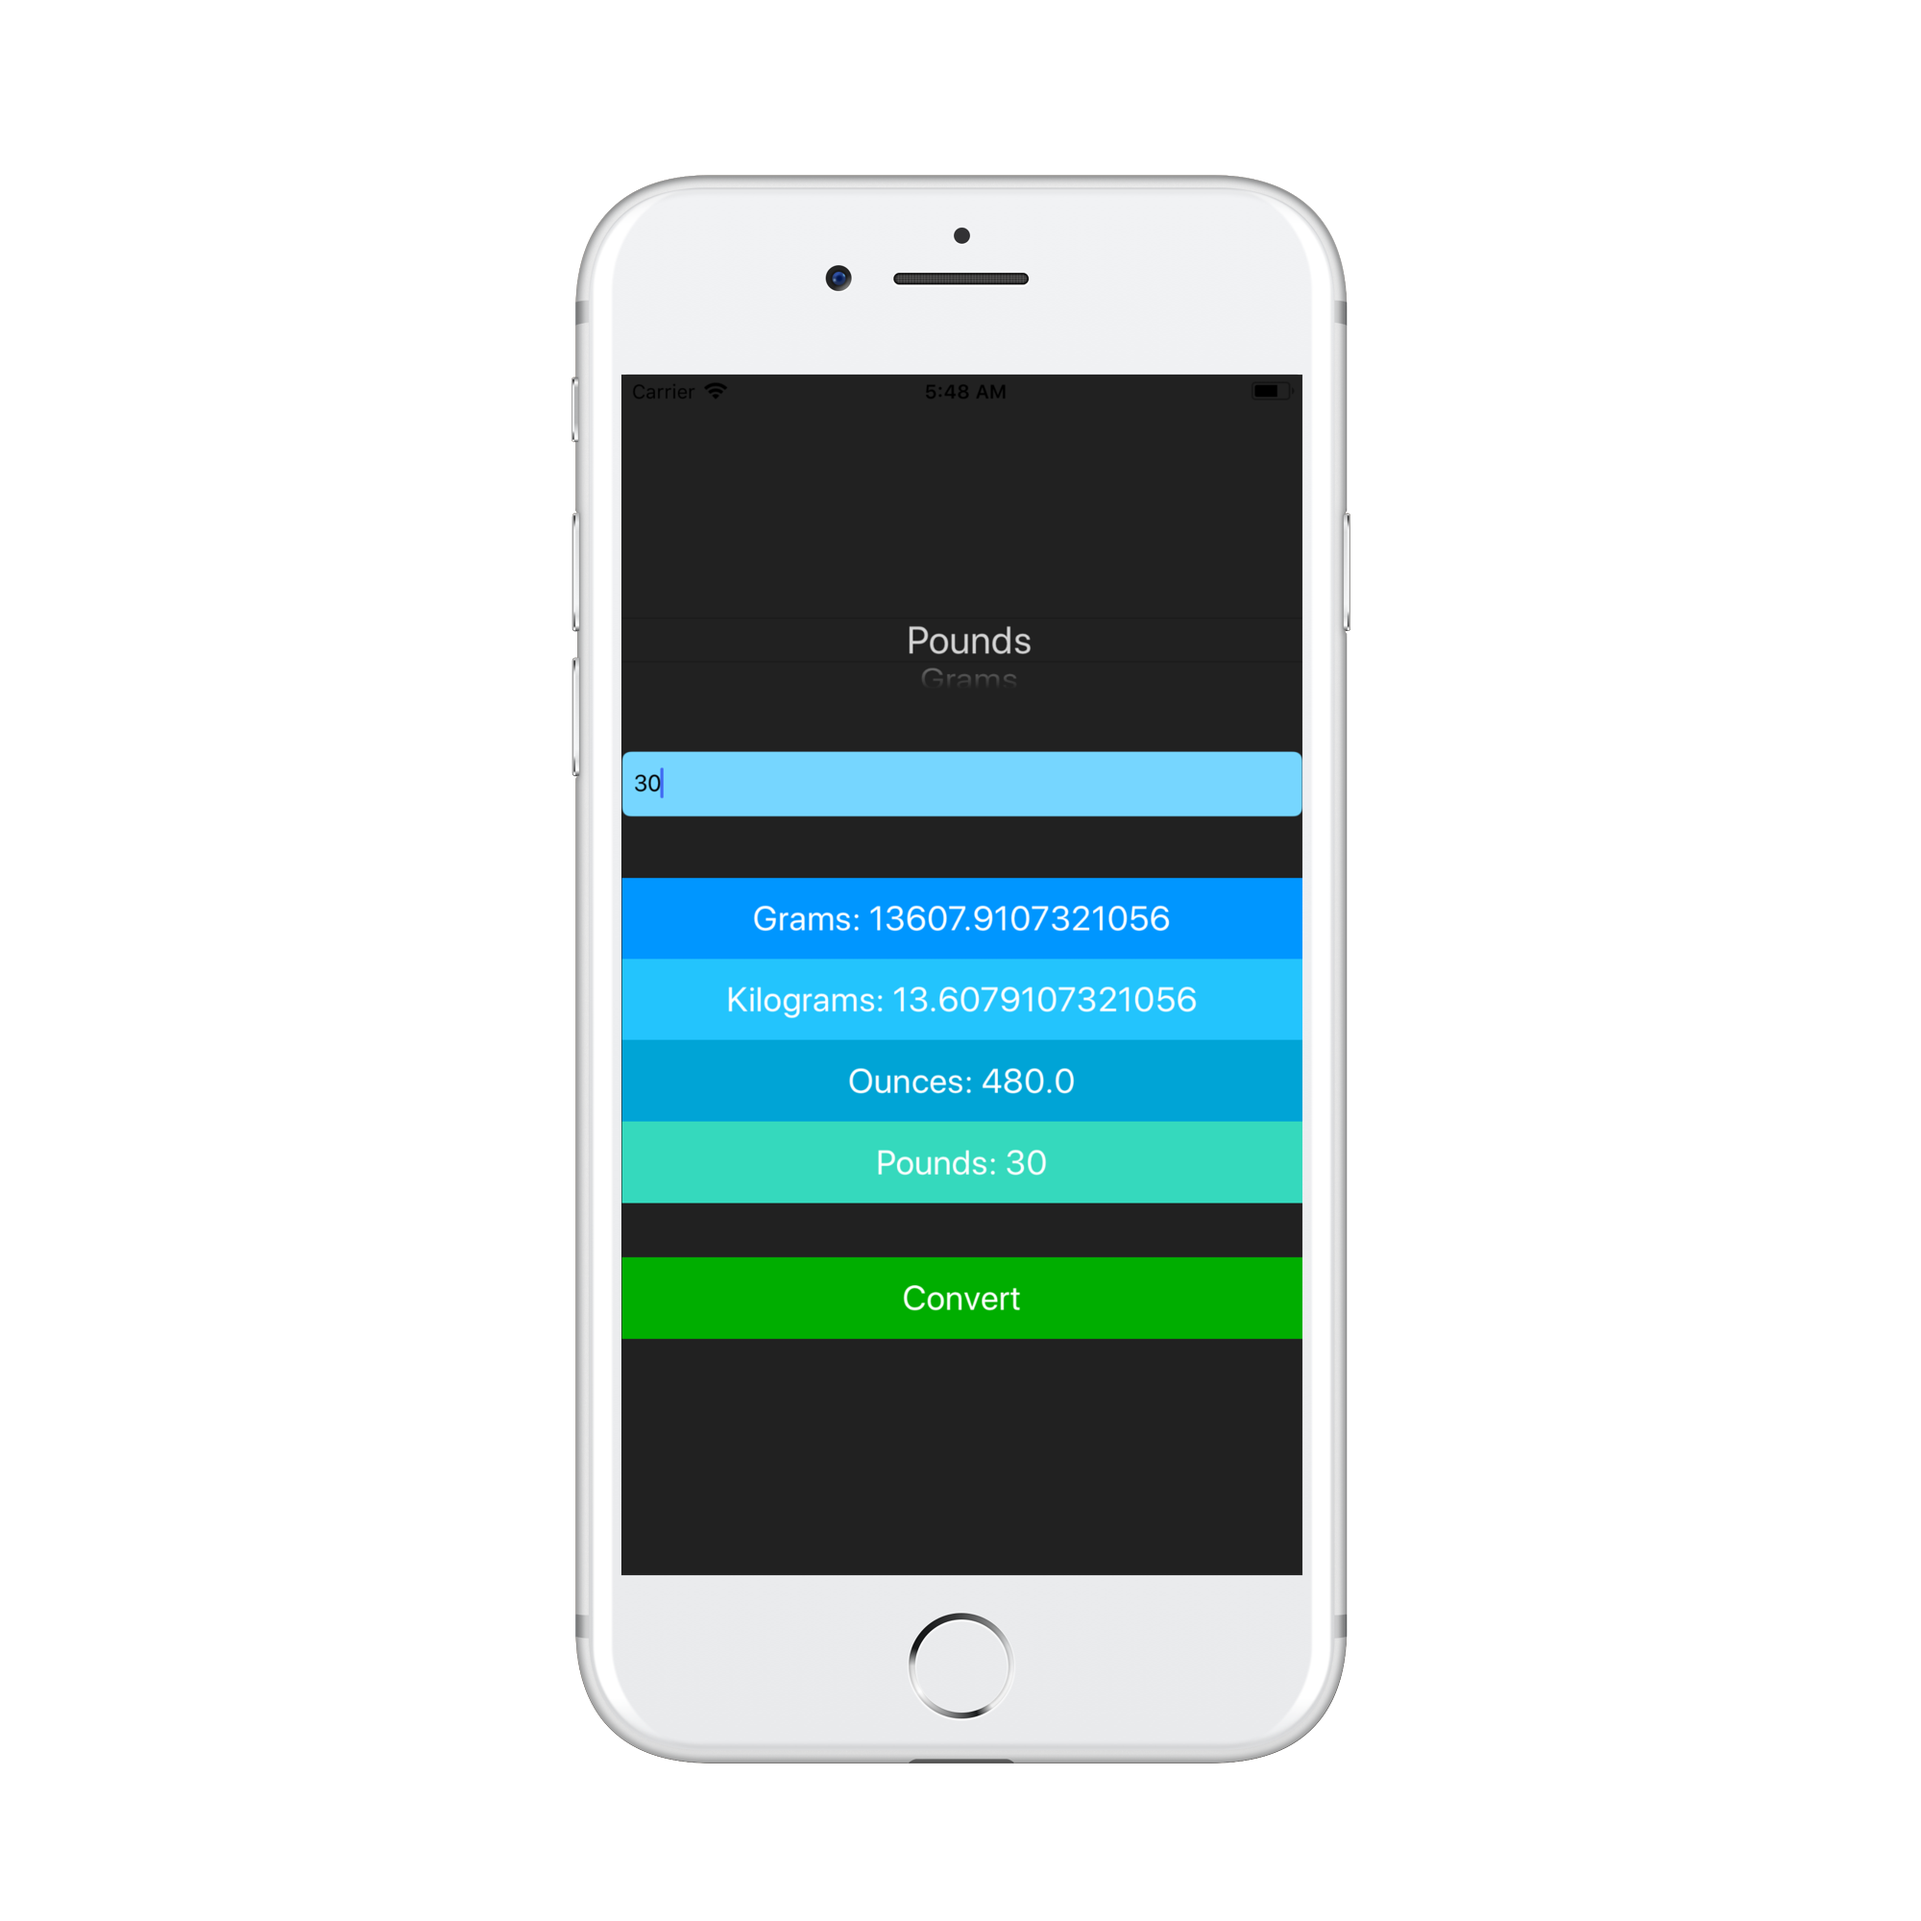
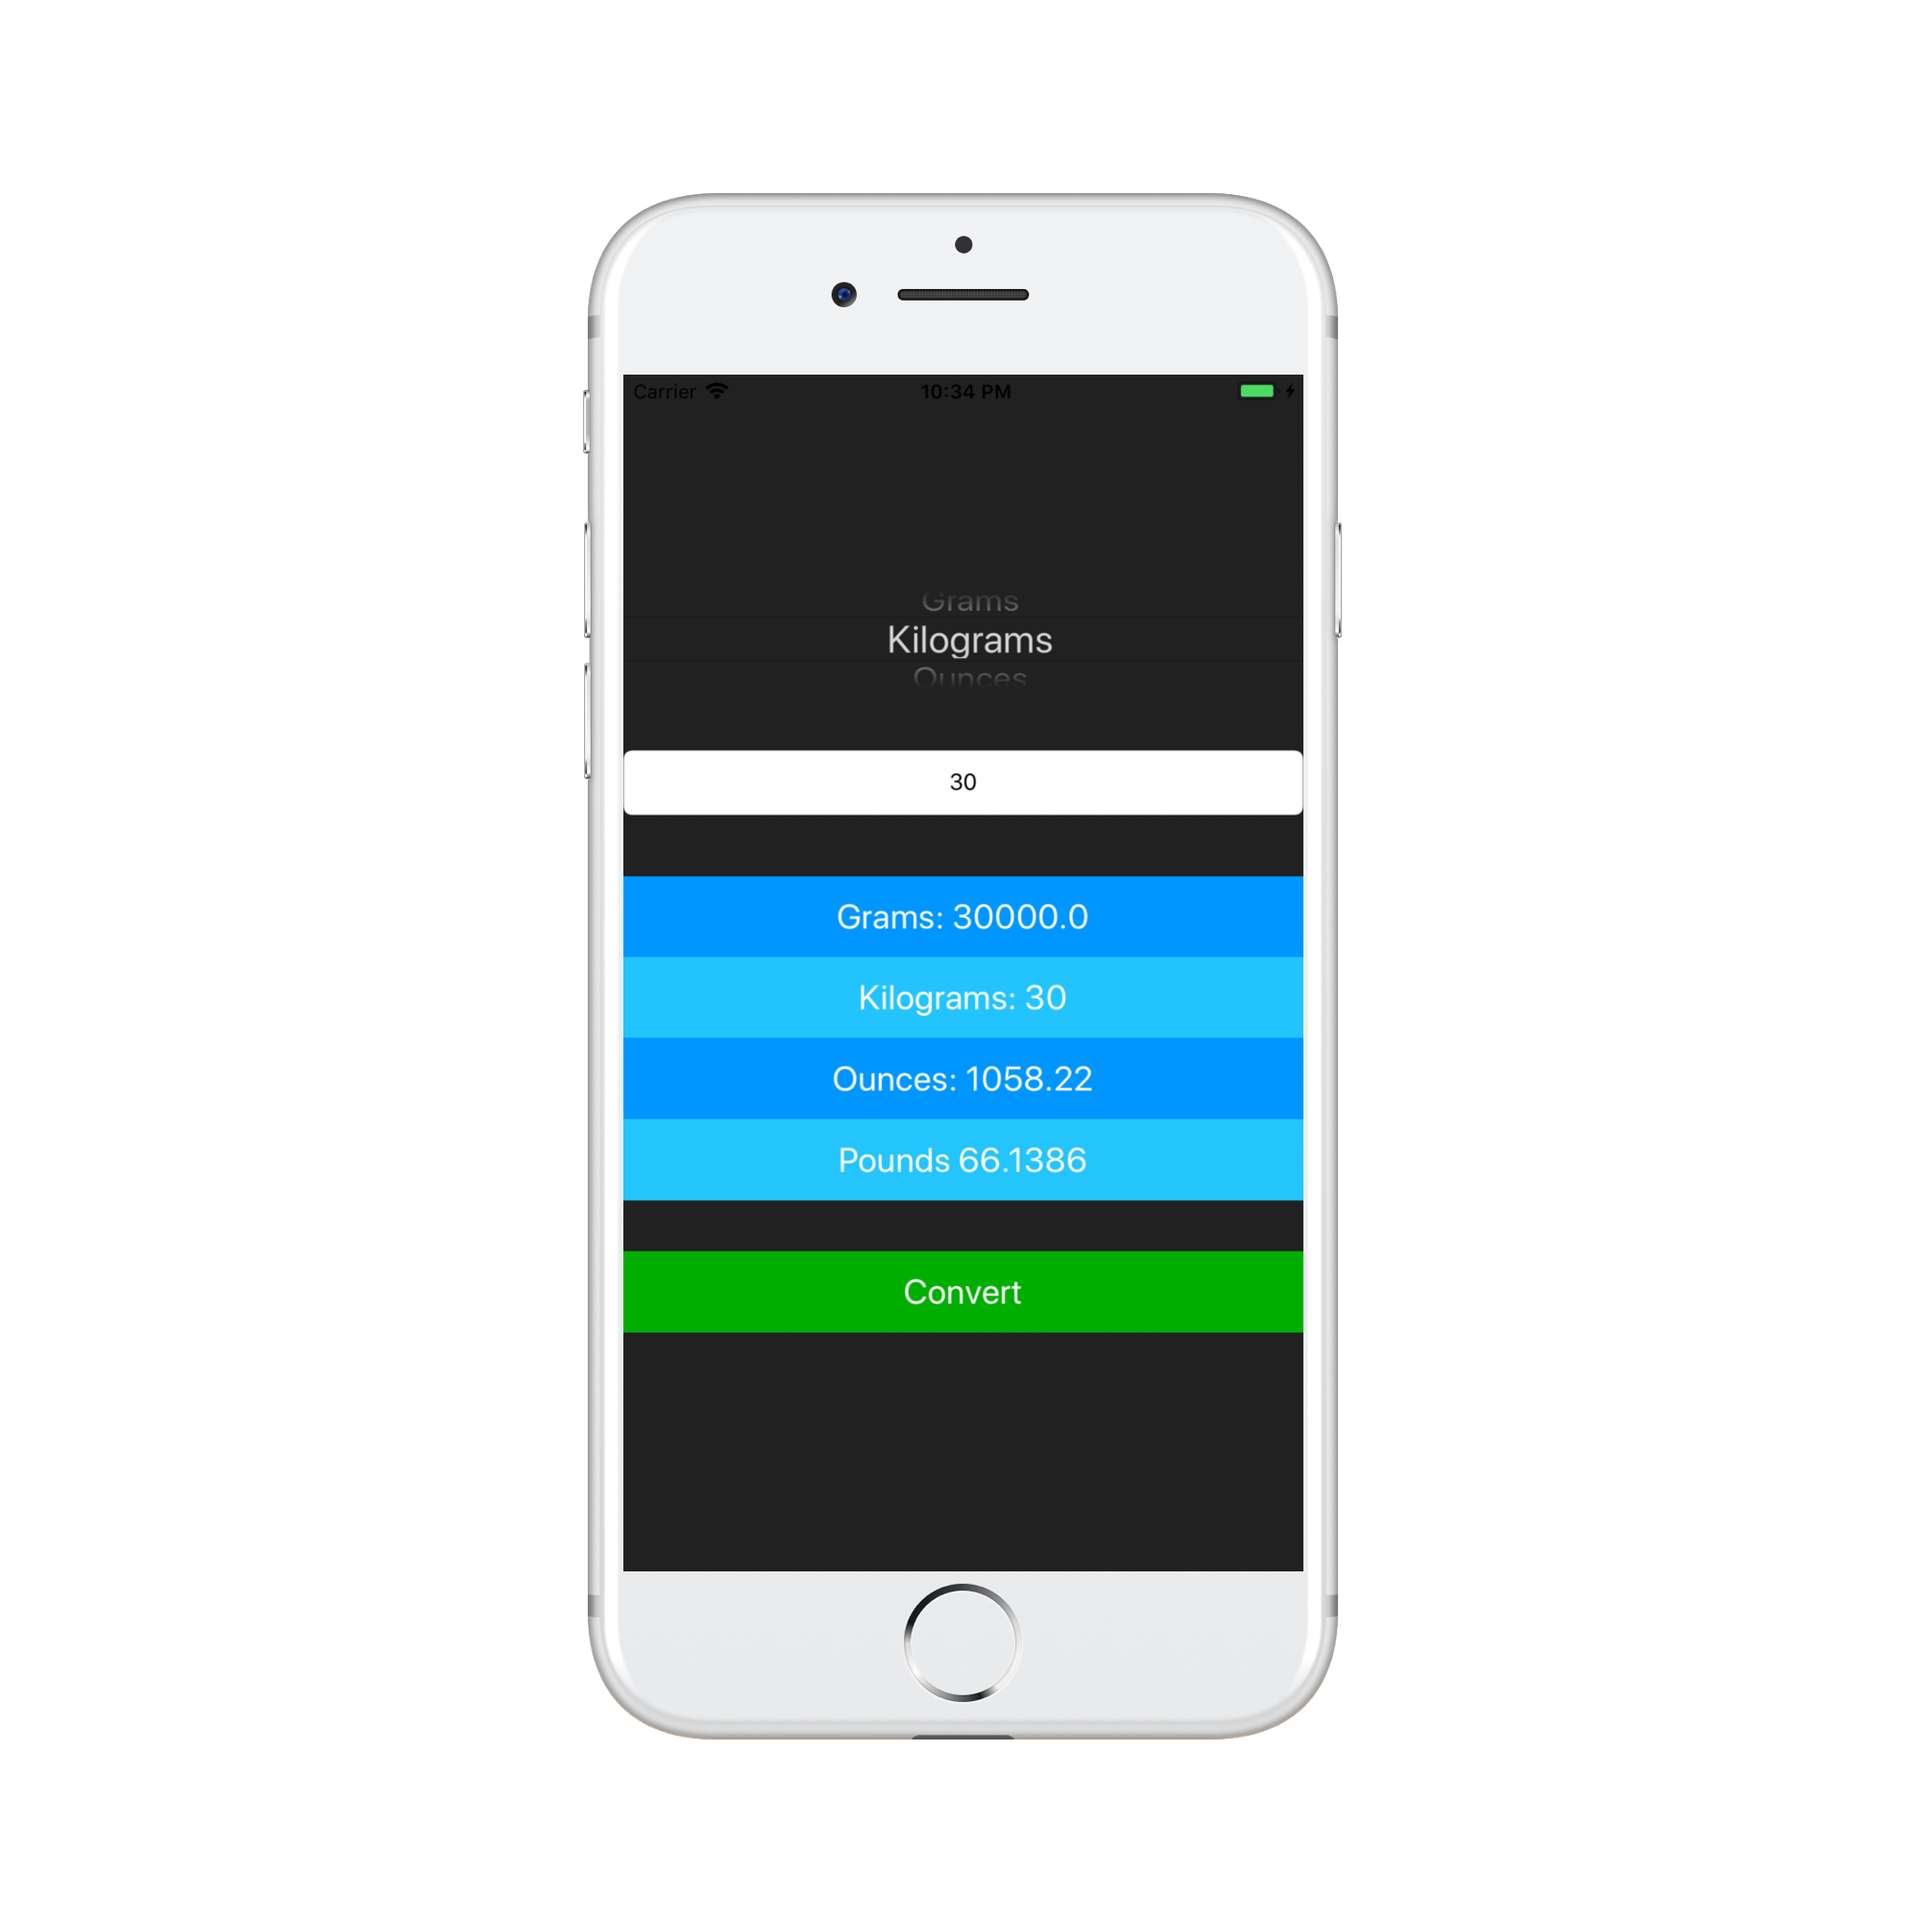
Weight Converter
Weight Converter

Changed region(s): [[0.279, 0.093, 0.713, 0.93], [0.465, 0.31, 0.558, 0.341]]

diff --git a/simple weight converter/ViewController.swift b/simple weight converter/ViewController.swift
@@ -205,7 +205,7 @@ class ViewController: UIViewController, UIPickerViewDataSource, UIPickerViewDele
         let gramsValue3 = Double(jinputField.text!)! * 28.3495
         grams.text = String("Grams: \(gramsValue3) ")
         let KilogramsValue3 = Double(jinputField.text!)! * 0.028349500000294
-        kgrams.text = String("Ounces: \(KilogramsValue3) ")
+        kgrams.text = String("Kilograms: \(KilogramsValue3) ")
         let poundsValue3 = Double(jinputField.text!)! * 0.0625
         pounds.text = String("pounds: \(poundsValue3) ")
         grams.isHidden = false
@@ -216,7 +216,7 @@ class ViewController: UIViewController, UIPickerViewDataSource, UIPickerViewDele
     }
 /*---------------------------------------------------------*/
     
-    
+   
     //to perevent the App crashing when there is an empty value 
     func check_input(){
         if   jinputField.text == "" {
